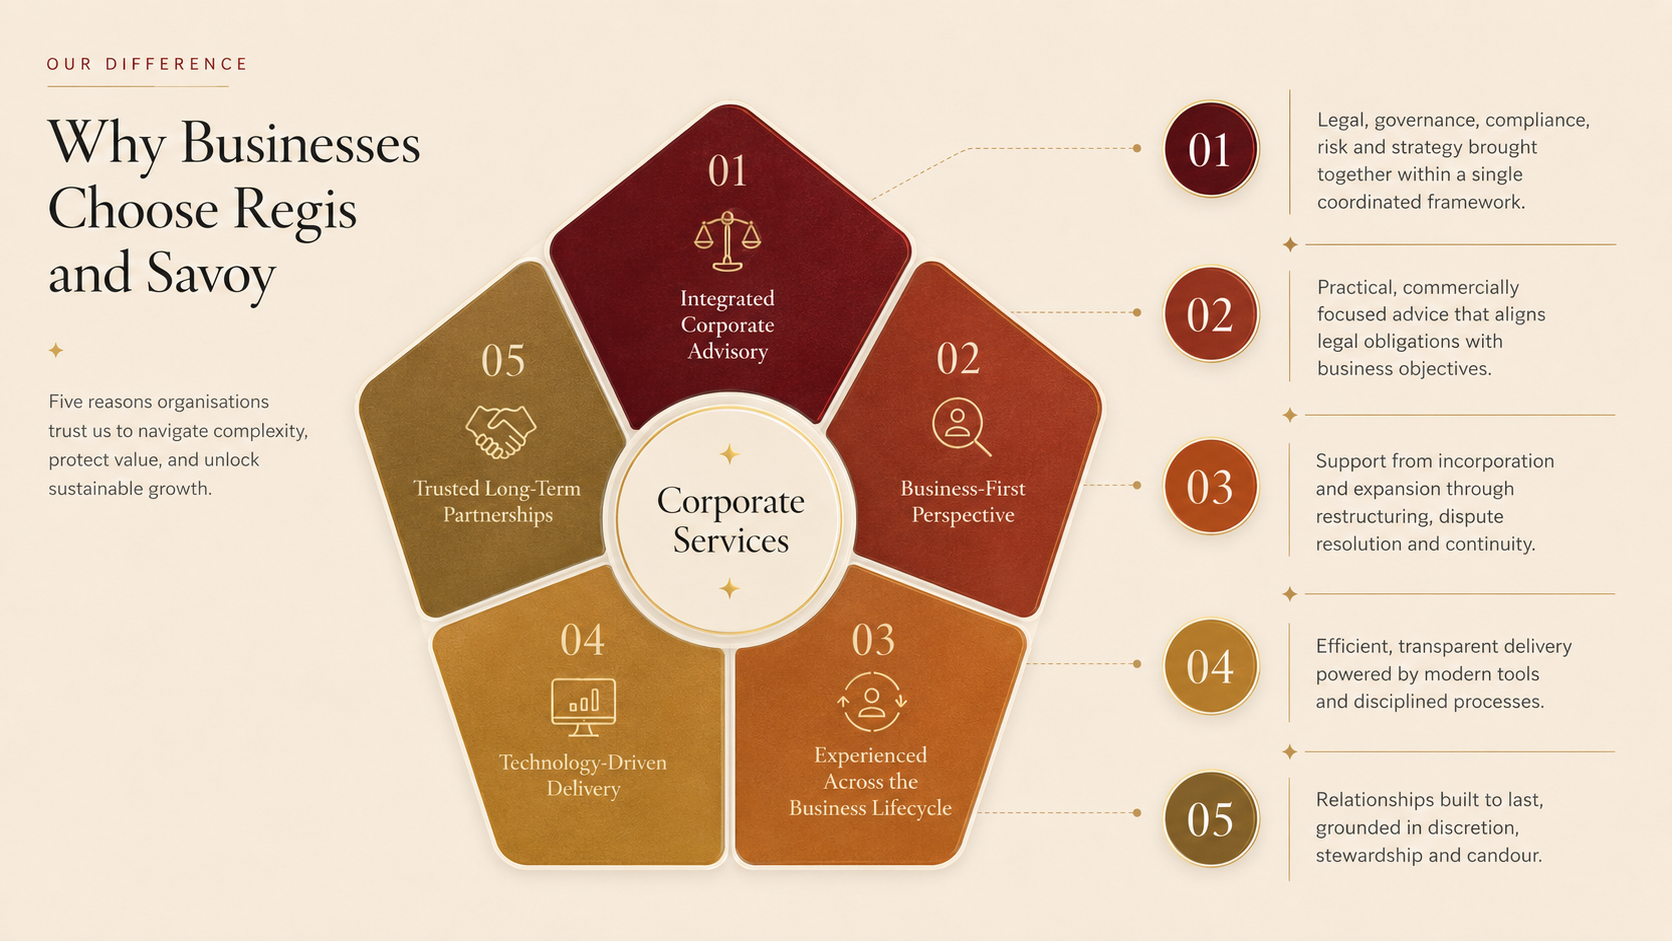
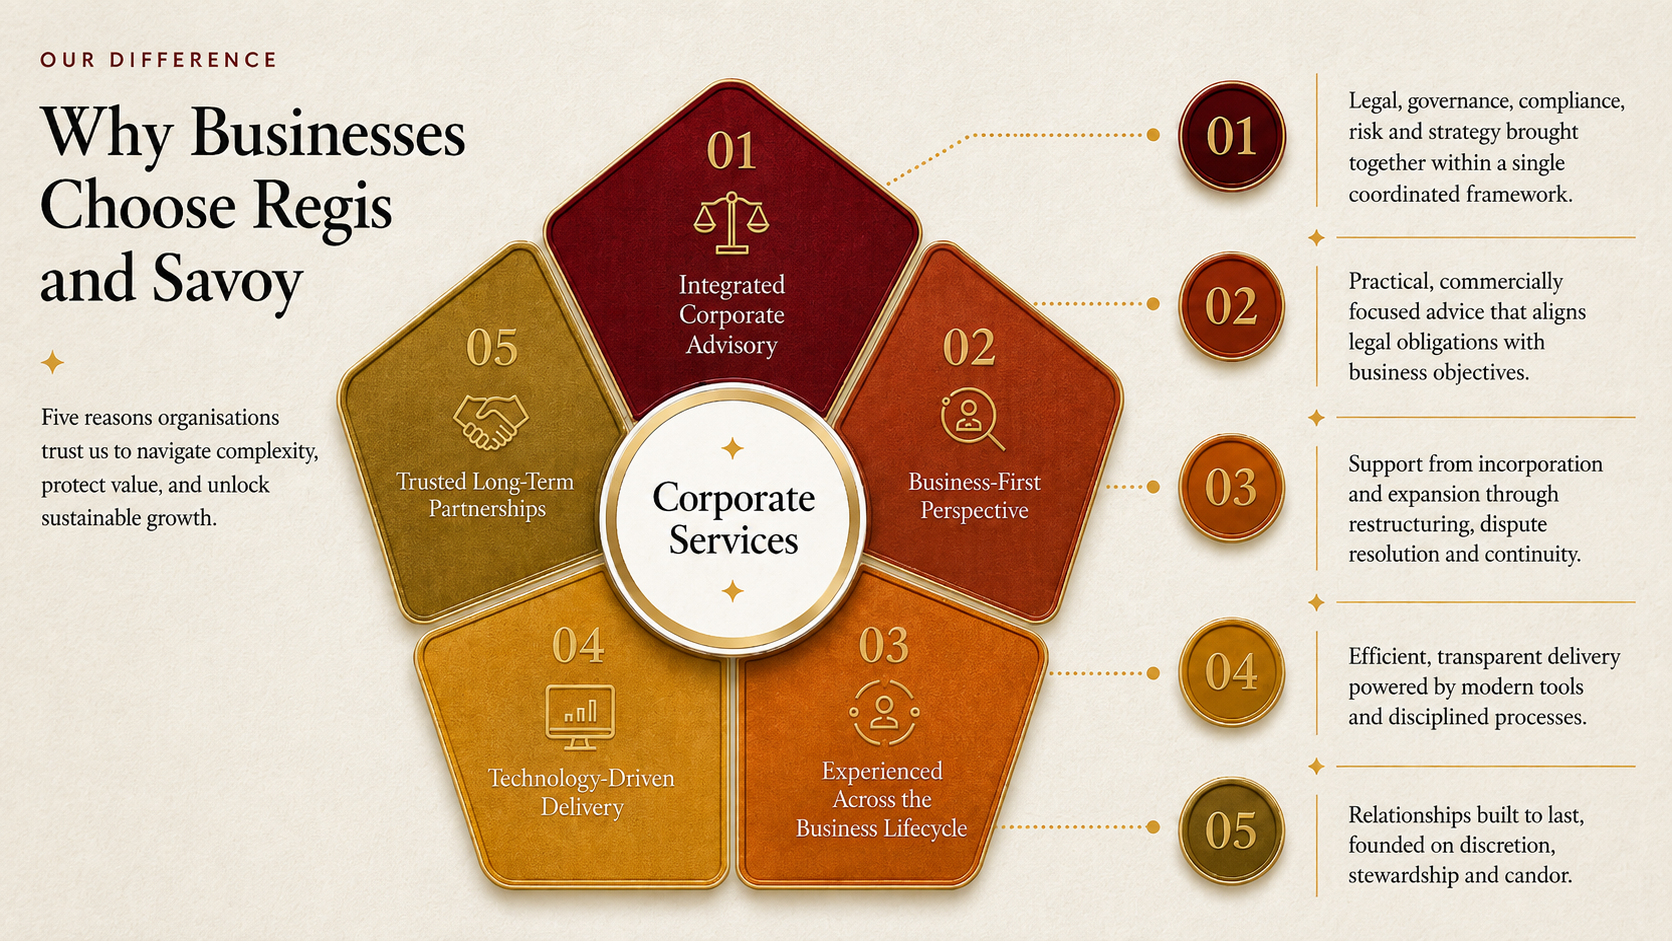
feat: align sub-hero sections, add Succulent section to Why page
- PageHeader: restore full-height hero (min-h + pt-40 pb-24, no flex centering) so text sits at top consistently across About, Services, Contact
- About: restore swapLayout hero (right-aligned), increase Statement section padding, match Our Difference bg to image colour (#ece5d9)
- Contact: add top padding to form section (py-20 md:py-28)
- Why: add new Succulent section between hero and What Sets Us Apart, using existing site clipart collage (all.png + corner accents)
- Updated our-difference.png
- ServicesAccordion, Lifecycle: minor density tweaks

Claude-Session: https://claude.ai/code/session_01Ms3etj3DsDsnaNdxNEpMZg

diff --git a/src/components/sections/ServicesAccordion.tsx b/src/components/sections/ServicesAccordion.tsx
@@ -35,11 +35,11 @@ export default function ServicesAccordion({
           <div key={s.id} id={s.id} className={`scroll-mt-28 border-b ${borderClass}`}>
             <button
               onClick={() => setOpenId(open ? null : s.id)}
-              className="group flex w-full items-center gap-5 py-5 text-left transition-colors"
+              className="group flex w-full items-center gap-4 py-3.5 text-left transition-colors"
               aria-expanded={open}
             >
               <span
-                className={`h-6 w-6 shrink-0 transition-colors duration-300 ${
+                className={`h-5 w-5 shrink-0 transition-colors duration-300 ${
                   open ? iconOpen : iconClosed
                 }`}
               >
@@ -47,7 +47,7 @@ export default function ServicesAccordion({
               </span>
               <span className="flex-1">
                 <span
-                  className={`block font-[var(--font-display)] text-[clamp(1.15rem,2vw,1.7rem)] font-medium leading-tight transition-colors duration-300 ${
+                  className={`block font-[var(--font-display)] text-[clamp(0.98rem,1.4vw,1.25rem)] font-medium leading-tight transition-colors duration-300 ${
                     open ? titleOpen : titleClosed
                   }`}
                 >
@@ -55,7 +55,7 @@ export default function ServicesAccordion({
                 </span>
               </span>
               <span
-                className={`relative flex h-7 w-7 shrink-0 items-center justify-center rounded-full border transition-colors duration-300 ${
+                className={`relative flex h-6 w-6 shrink-0 items-center justify-center rounded-full border transition-colors duration-300 ${
                   open
                     ? "border-copper bg-copper text-ivory-2"
                     : isDark
@@ -63,9 +63,9 @@ export default function ServicesAccordion({
                     : "border-stone text-inkg"
                 }`}
               >
-                <span className="absolute h-[1.5px] w-3 bg-current" />
+                <span className="absolute h-[1.5px] w-2.5 bg-current" />
                 <span
-                  className={`absolute h-3 w-[1.5px] bg-current transition-transform duration-500 ${
+                  className={`absolute h-2.5 w-[1.5px] bg-current transition-transform duration-500 ${
                     open ? "rotate-90 scale-0" : ""
                   }`}
                 />
@@ -81,17 +81,17 @@ export default function ServicesAccordion({
                   transition={{ duration: 0.5, ease: EASE }}
                   className="overflow-hidden"
                 >
-                  <div className="grid gap-8 pb-8 pl-3 sm:pl-11 md:grid-cols-[1fr_1.2fr]">
-                    <p className={`max-w-md text-sm leading-relaxed ${summaryClass}`}>
+                  <div className="grid gap-6 pb-6 pl-3 sm:pl-9 md:grid-cols-[1fr_1.2fr]">
+                    <p className={`max-w-md text-xs sm:text-sm leading-relaxed ${summaryClass}`}>
                       {s.summary}
                     </p>
-                    <ul className="grid gap-x-8 gap-y-1 sm:grid-cols-2">
+                    <ul className="grid gap-x-6 gap-y-1 sm:grid-cols-2">
                       {s.items.map((it) => (
                         <li
                           key={it}
-                          className={`flex items-center gap-3 border-b ${itemBorder} py-2.5 text-[0.88rem] ${itemText}`}
+                          className={`flex items-center gap-2.5 border-b ${itemBorder} py-2 text-[0.82rem] ${itemText}`}
                         >
-                          <span className="h-1.5 w-1.5 rounded-full bg-copper-soft" />
+                          <span className="h-1 w-1 rounded-full bg-copper-soft" />
                           {linkItems ? (
                             <Link
                               href={`/services#${s.id}`}

diff --git a/src/pages/Why.tsx b/src/pages/Why.tsx
@@ -51,6 +51,63 @@ export default function WhyPage() {
         </div>
       </section>
 
+      {/* The Succulent — brand symbol */}
+      <section className="relative overflow-hidden py-20 md:py-28" style={{ backgroundColor: "#efe4d2" }}>
+        {/* scattered succulent accents */}
+        <Botanical src="purple.png" className="pointer-events-none absolute -bottom-6 left-[2vw] w-20 opacity-70 md:w-28" />
+        <Botanical src="teal.png"   className="pointer-events-none absolute right-[2vw] top-8 w-14 opacity-60 md:w-20" />
+        <Botanical src="redgreen.png" className="pointer-events-none absolute bottom-10 right-[18vw] hidden w-10 opacity-50 lg:block" />
+
+        <div className="relative mx-auto max-w-[1400px] px-[var(--spacing-gutter)]">
+          <div className="grid items-center gap-16 lg:grid-cols-[1.1fr_0.9fr]">
+
+            {/* Text */}
+            <Reveal>
+              <p className="eyebrow mb-6 flex items-center gap-3 text-copper-dark">
+                <span className="h-px w-12 bg-copper" />
+                Our Symbol
+              </p>
+              <h2
+                className="font-[var(--font-display)] text-inkg"
+                style={{ fontSize: "clamp(1.7rem, 4vw, 3.6rem)", lineHeight: 1.08 }}
+              >
+                The Succulent
+              </h2>
+              <p className="mt-8 max-w-xl text-[1.05rem] leading-relaxed text-inkg-soft">
+                Distinctive in form and remarkably resilient by nature, succulents are designed
+                to thrive with minimal intervention. Their ability to store and conserve water
+                allows them to sustain themselves, while their unique forms and colours bring
+                character and beauty to the environment around them.
+              </p>
+              <p className="mt-5 max-w-xl text-[1.05rem] leading-relaxed text-inkg-soft">
+                Rooted in resilience and designed for sustainable growth, the succulent reflects
+                our belief that the right structure can thrive independently while strengthening
+                the ecosystem around it.
+              </p>
+            </Reveal>
+
+            {/* Clipart collage — same succulents used throughout the site */}
+            <Reveal delay={0.18}>
+              <div className="relative mx-auto aspect-square w-full max-w-[460px] lg:max-w-none">
+                {/* centre — all.png group */}
+                <img src="/images/succulents/all.png" aria-hidden
+                  className="absolute inset-0 m-auto w-[72%] drop-shadow-[0_8px_20px_rgba(80,50,20,0.18)]" />
+                {/* corner accents */}
+                <img src="/images/succulents/lilac.png" aria-hidden
+                  className="absolute left-0 top-0 w-[32%] -translate-x-1/4 -translate-y-1/4 drop-shadow-[0_6px_14px_rgba(80,50,20,0.15)]" />
+                <img src="/images/succulents/teal.png" aria-hidden
+                  className="absolute bottom-0 right-0 w-[28%] translate-x-1/4 translate-y-1/4 drop-shadow-[0_6px_14px_rgba(80,50,20,0.15)]" />
+                <img src="/images/succulents/green.png" aria-hidden
+                  className="absolute right-0 top-[10%] w-[24%] translate-x-1/3 drop-shadow-[0_6px_14px_rgba(80,50,20,0.12)]" />
+                <img src="/images/succulents/redgreen.png" aria-hidden
+                  className="absolute bottom-[8%] left-0 w-[22%] -translate-x-1/3 drop-shadow-[0_6px_14px_rgba(80,50,20,0.12)]" />
+              </div>
+            </Reveal>
+
+          </div>
+        </div>
+      </section>
+
       {/* What sets us apart — compact high-end 3x2 grid */}
       <section className="relative overflow-hidden bg-ivory py-16 md:py-20">
         <Botanical src="green.png" className="right-[5vw] top-20 hidden w-12 sm:block md:w-16" />

diff --git a/src/components/PageHeader.tsx b/src/components/PageHeader.tsx
@@ -6,35 +6,53 @@ export default function PageHeader({
   title,
   intro,
   accent = "green.png",
+  swapLayout = false,
 }: {
   eyebrow: string;
   title: string;
   intro?: string;
   accent?: string;
+  swapLayout?: boolean;
 }) {
   return (
-    <section className="relative overflow-hidden pb-16 pt-40">
-      {/* botanical accent sits in the top padding, above the copy */}
+    <section className="relative min-h-[calc(100vh-80px)] overflow-hidden pb-24 pt-40">
+      {/* botanical accent */}
       <Botanical
         src={accent}
-        className="right-[6vw] top-52 hidden w-14 sm:block md:w-20"
+        className={
+          swapLayout
+            ? "left-[4vw] sm:left-[6vw] top-24 hidden w-14 sm:block md:w-20"
+            : "right-[6vw] top-52 hidden w-14 sm:block md:w-20"
+        }
       />
       <div className="relative mx-auto max-w-[1400px] px-[var(--spacing-gutter)]">
-        <p className="eyebrow mb-8 flex items-center gap-3 text-crimson">
-          <span className="h-px w-10 bg-crimson" />
-          {eyebrow}
-        </p>
-        <h1
-          className="display-xl max-w-[22ch] text-ink"
-          style={{ fontSize: "clamp(1.7rem, 4vw, 3.6rem)", lineHeight: 1.08 }}
-        >
-          <RevealWords text={title} delay={0.1} />
-        </h1>
-        {intro && (
-          <p className="mt-8 max-w-2xl text-base leading-relaxed text-ink-soft">
-            {intro}
+        <div className={swapLayout ? "md:ml-auto md:max-w-[800px] text-right" : ""}>
+          <p
+            className={`eyebrow mb-8 flex items-center gap-3 text-crimson ${
+              swapLayout ? "justify-end flex-row-reverse" : ""
+            }`}
+          >
+            <span className="h-px w-10 bg-crimson" />
+            {eyebrow}
           </p>
-        )}
+          <h1
+            className={`display-xl max-w-[22ch] text-ink ${
+              swapLayout ? "ml-auto text-right" : ""
+            }`}
+            style={{ fontSize: "clamp(1.7rem, 4vw, 3.6rem)", lineHeight: 1.08 }}
+          >
+            <RevealWords text={title} delay={0.1} />
+          </h1>
+          {intro && (
+            <p
+              className={`mt-8 max-w-2xl text-base leading-relaxed text-ink-soft ${
+                swapLayout ? "ml-auto text-right" : ""
+              }`}
+            >
+              {intro}
+            </p>
+          )}
+        </div>
       </div>
     </section>
   );

diff --git a/src/pages/About.tsx b/src/pages/About.tsx
@@ -11,10 +11,11 @@ export default function AboutPage() {
         title={about.title}
         intro={about.paragraphs[0]}
         accent="lilac.png"
+        swapLayout
       />
 
       {/* Statement */}
-      <section className="py-24">
+      <section className="py-20 md:py-28">
         <div className="mx-auto grid max-w-[1400px] gap-16 px-[var(--spacing-gutter)] lg:grid-cols-[1fr_1.3fr]">
           <Reveal>
             <div>
@@ -27,13 +28,13 @@ export default function AboutPage() {
             </div>
           </Reveal>
           <Reveal delay={0.1}>
-            <div className="space-y-6">
+            <div className="space-y-4">
               <p className="display-md text-ink">
                 An integrated approach for businesses that want more than legal
                 advice.
               </p>
               {about.paragraphs.slice(1).map((p) => (
-                <p key={p.slice(0, 24)} className="text-lg leading-relaxed text-ink-soft">
+                <p key={p.slice(0, 24)} className="text-[0.93rem] leading-relaxed text-ink-soft">
                   {p}
                 </p>
               ))}
@@ -45,7 +46,7 @@ export default function AboutPage() {
       {/* Our Difference */}
       <section
         className="py-16 md:py-24"
-        style={{ backgroundColor: "#f5e9d9" }}
+        style={{ backgroundColor: "#ece5d9" }}
       >
         <div className="mx-auto max-w-[1400px] px-[var(--spacing-gutter)]">
           <Reveal>

diff --git a/src/components/sections/Lifecycle.tsx b/src/components/sections/Lifecycle.tsx
@@ -25,7 +25,7 @@ export default function Lifecycle() {
               transition={{ duration: 0.7, ease: EASE, delay: i * 0.08 }}
               className="group relative bg-[#efe4ce] p-8 transition-colors duration-500 hover:bg-forest"
             >
-              <h3 className="font-[var(--font-display)] text-2xl text-copper transition-colors duration-500 group-hover:text-ivory-2">
+              <h3 className="font-[var(--font-display)] text-2xl text-black transition-colors duration-500 group-hover:text-ivory-2">
                 {stage.title}
               </h3>
               <p className="mt-3 text-sm leading-relaxed text-sage transition-colors duration-500 group-hover:text-ivory-2/60">

diff --git a/src/pages/Contact.tsx b/src/pages/Contact.tsx
@@ -14,7 +14,7 @@ export default function ContactPage() {
         accent="redgreen.png"
       />
 
-      <section className="pb-32">
+      <section className="py-20 md:py-28">
         <div className="mx-auto grid max-w-[1400px] gap-16 px-[var(--spacing-gutter)] lg:grid-cols-[1.3fr_0.9fr]">
           <Reveal>
             <ContactForm />
